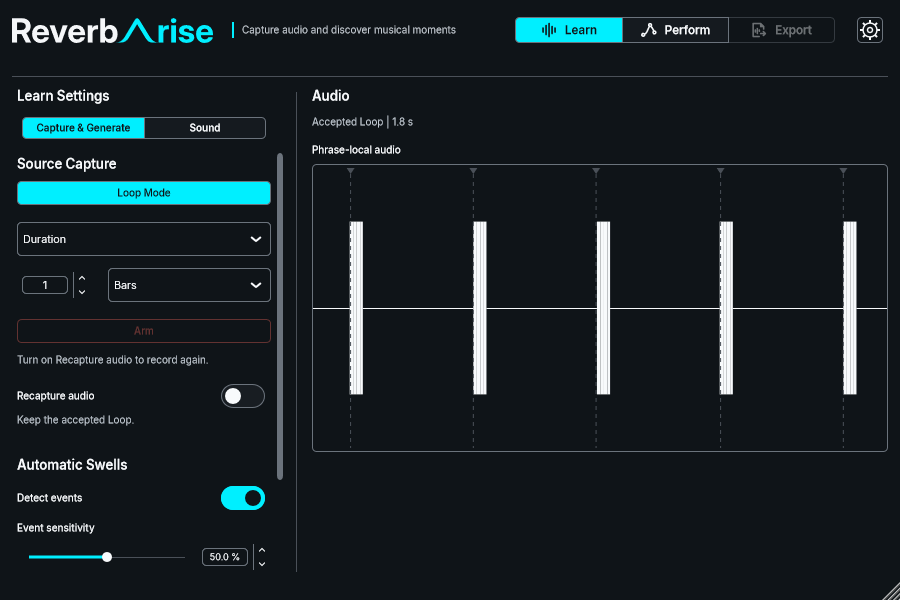
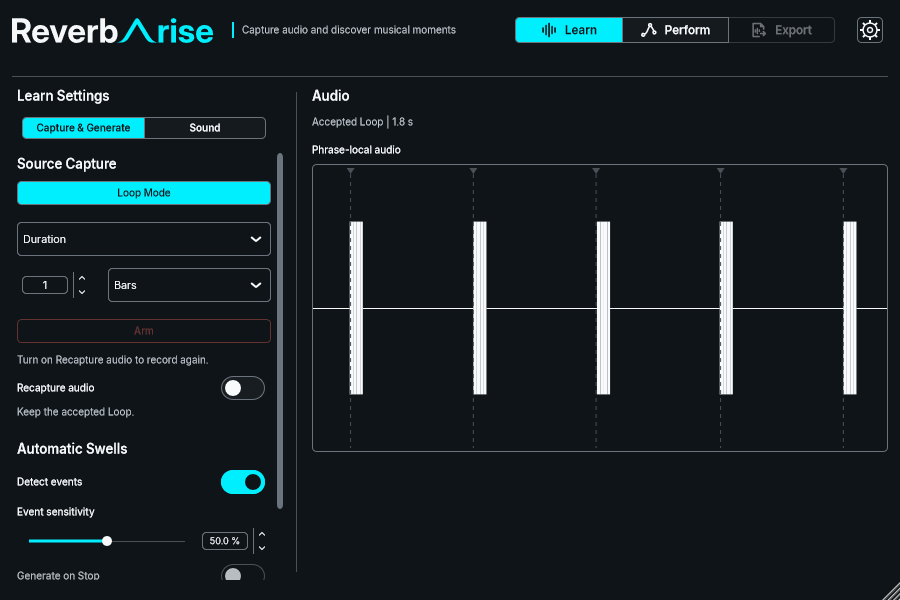
Record passing Release suite and final native review captures

Changed region(s): [[0.0, 0.63, 0.1867, 0.99], [0.2178, 0.78, 0.3422, 0.99], [0.2489, 0.63, 0.3111, 0.69]]

diff --git a/docs/validation/2026-11-10-loop-main-integration.md b/docs/validation/2026-11-10-loop-main-integration.md
@@ -9,7 +9,7 @@
 - Final main checkpoint: `88bd5d0` (PR #148, revision-25 text/help/notices), synchronized in merge `d9c17b4`. The Loop target remained `c2a9758`.
 - Integration began on 10 November; follow-up validation continued on 11 November.
 - Initial resolved merge: `942bca3523e280635245a1bed7a94361e26eb7c8`; a real two-parent merge retains synchronization ancestry.
-- This integrates existing approved contracts. No new OpenSpec change, feature scope, control family, visual variant, state schema or host identifier is introduced.
+- This integrates existing approved contracts. The integration adds no OpenSpec change, feature scope, control family, visual variant, state schema or host identifier beyond the approved branch work.
 
 ## Resolution decisions
 
@@ -38,7 +38,10 @@ compilation passed in `out/build-logs/Debug/20261111-002842-80c9835e/`.
 These are full-run plus focused native results, not a claim that a second full
 Debug run was executed on the final checkpoint.
 
-Release validation is the next gate and will be recorded in the completion update.
+Release used `scripts/build.ps1 -Configuration Release -Test` at `5b425ea`.
+Configure, the VST3 and test build, and all 103 CTest cases passed (345.95 s
+of test time). The full-run log is
+`out/build-logs/Release/20261111-003130-7b559c1b/test.log`.
 
 - `scripts/check-ui-standards.ps1`: pass, 85 files / 48 bounded definition/debt occurrences after merging main revision 25. No debt inventory regeneration.
 - `scripts/check-user-guide.ps1`: pass after explicit semantic review.
@@ -82,8 +85,11 @@ Real disposable-fixture captures, 900×600 composition with 100%/125% user scale
 - [Song/Loop Perform, 100%](2026-11-10-loop-main-integration/song-loop-perform-100.png)
 - [Song/Loop Perform, 125%](2026-11-10-loop-main-integration/song-loop-perform-125.png)
 
-The completion update will replace the initial captures with the final Release
-checkpoint images and record the retained owner-preview output.
+The four captures are from the validated Release checkpoint, generated with
+`--test-loop` and `--test-loop-perform` and inspected at both user scales.
+Native capture output and logs are retained under
+`out/integration-review/final/`. The task build tree is retained for the
+native Learn review; no build output was removed.
 
 ## Environment and limitations
 
